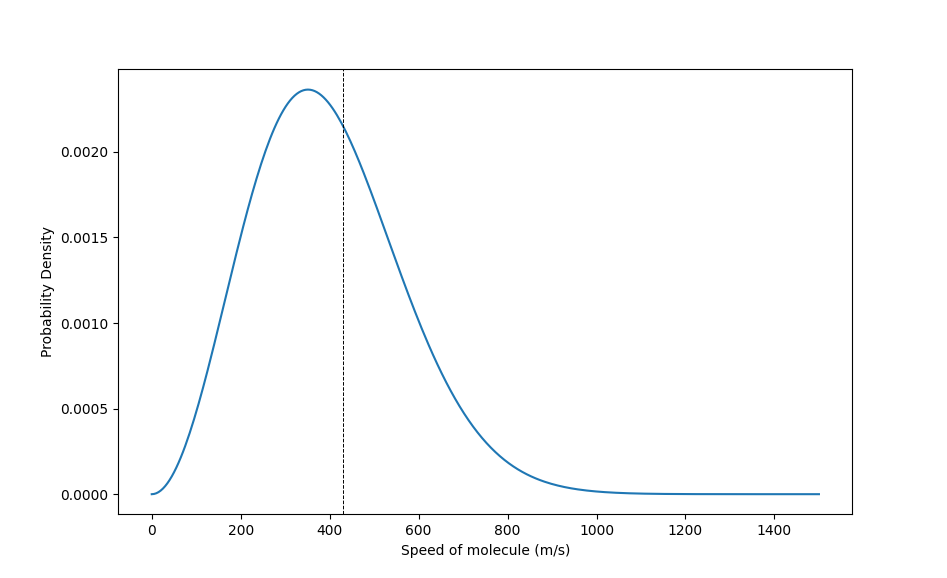
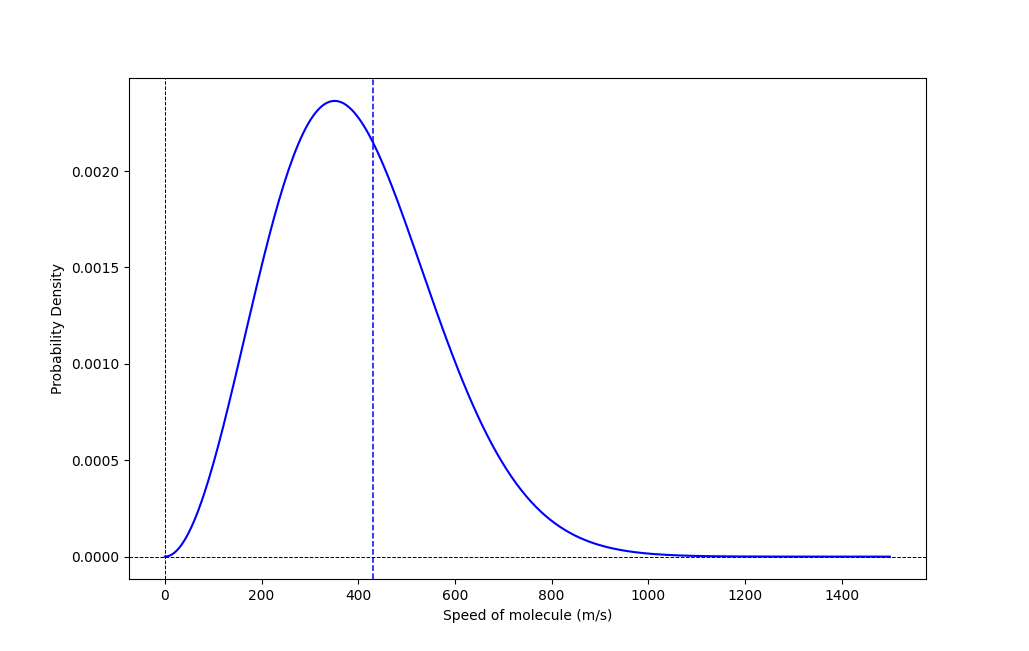
More of the physics of gases

diff --git a/Chapters/gas/en_US/student.tex b/Chapters/gas/en_US/student.tex
@@ -32,7 +32,7 @@ $$p = 101,332 \times \left(1 - \left( 2.25577 \times 10^{-5} \times h\right) \ri
 
 where $p$ is the atmospheric pressure in pascals.
 
-\begin{Exercise}[title={Atomospheric Pressure},  label=atmos_pressure]
+\begin{Exercise}[title={Atmospheric Pressure},  label=atmos_pressure]
   
 You are thinking about riding your bicycle to the top of Mount Everest.  You are worried when the atmospheric pressure outside the tire drops,  the tire will fail.  
 (This has happened to me; It is very, very loud.)  
@@ -80,7 +80,57 @@ The temperature,  remember,  is determined by the average kinetic energy of the 
 
 Where is that line?  That is the RMS of the speeds of the molecules.  That is, if we measured all the speeds of all the molecules  $s_1, s_2, s_3, \ldots, s_n$, that line would be given by the root of the mean of the squares:
 
-$$v_{rms} = \sqrt{\frac{1}{n} \left( s_1^2 + s_2^2 + s_3^2 + \ldots s_n^2 \right)}$$ 
+$$v_{rms} = \sqrt{\frac{1}{n} \left( s_1^2 + s_2^2 + s_3^2 + \ldots s_n^2 \right)}$$
+
+If you have the same gas at a lower temperature, the distribution shifts toward zero:
+
+Here is probability distribution of molecular speeds for argon gas at 25 degrees and -100 degrees Celsius.
+
+\includegraphics[width=\textwidth]{ar2_plot.png}
+
+If you keep lowering the temperature,  eventually the molecules stop moving.  This is known as \newterm{absolute zero} -- you
+ can't make anything colder than absolute zero.   Absolute zero is -273.15 degrees Celsius.
+ 
+Besides Celsius and Fahrenheit, there is a third temperature system: Kelvin.  The Kelvin has the same scale as Celsius, but it starts at absolute zero.   
+So,  0 degrees Celsius is 273.15 degrees Kelvin.    And 100 degrees Celsius is 373.15 degrees Kelvin.
+
+Any time you are working with the physics of temperature, you will use Kelvin.
+
+Let's say you have a half-full air mattress in a field with a person lying on it around dawn.   The weight of the person will keep the pressure of the air inside constant (or pretty close).  
+The molecules in the mattress are not entering or leaving that mattress.  However, as the sun rises,  the air inside will get warmer and expand.  The person will be gently lifted by the expanding air.  How much will the air expand?
+
+If you have constant pressure and number of molecules,  the volume of the gas is proportional to the temperature in Kelvin:
+
+$$V \propto T$$
+
+\begin{Exercise}[title={Temperature and Volume},  label=temp_vol]
+  
+At dawn, the air inside mattress at dawn has a volume of 1000 liters and a temperature of 12 degrees Celsius.
+
+At noon,  that same air has a temperature of 28 degrees Celsius.  The pressure on the gas has not changed at all.
+
+What is the volume of the gas at noon?
+
+\end{Exercise}
+\begin{Answer}[ref=temp_vol]
+
+First, we convert the temperatures into Kelvin:  
+\begin{enumerate}
+\item Dawn: $12 + 273.15 = 285.15$
+\item Noon: $28 + 273.15 = 301.15$
+\end{enumerate}
+
+So, the temperature $T$ has increased by a factor of $\frac{301.15}{285.15} \approx 1.056$
+
+Thus the volume of the air mattress has also increased by a factor of 1.056.  
+
+So the air mattress that had a volume of 1000 at dawn,  will have a volume 1056 at noon.
+
+\end{Answer}
+
+Note: Volume and temperature are only proportional as long as the substance is a gas.   We will talk about liquids and solids soon.
+
+
 
 
 

diff --git a/Chapters/gas/en_US/ar_plot.py b/Chapters/gas/en_US/ar_plot.py
@@ -17,8 +17,10 @@ print(a)
 v_rms = np.sqrt(3 * k * T/m)
 
 pdf = maxwell.pdf(speeds, 0, a)
-plt.plot(speeds, pdf)
+plt.plot(speeds, pdf, color="b")
 plt.xlabel("Speed of molecule (m/s)")
 plt.ylabel("Probability Density")
-plt.axvline(v_rms, color="k", linestyle="dashed", lw=0.7)
+plt.axvline(v_rms, color="b", linestyle="dashed", lw=1.1)
+plt.axhline(0, color="k", linestyle="dashed", lw=0.7)
+plt.axvline(0, color="k", linestyle="dashed", lw=0.7)
 plt.show()
